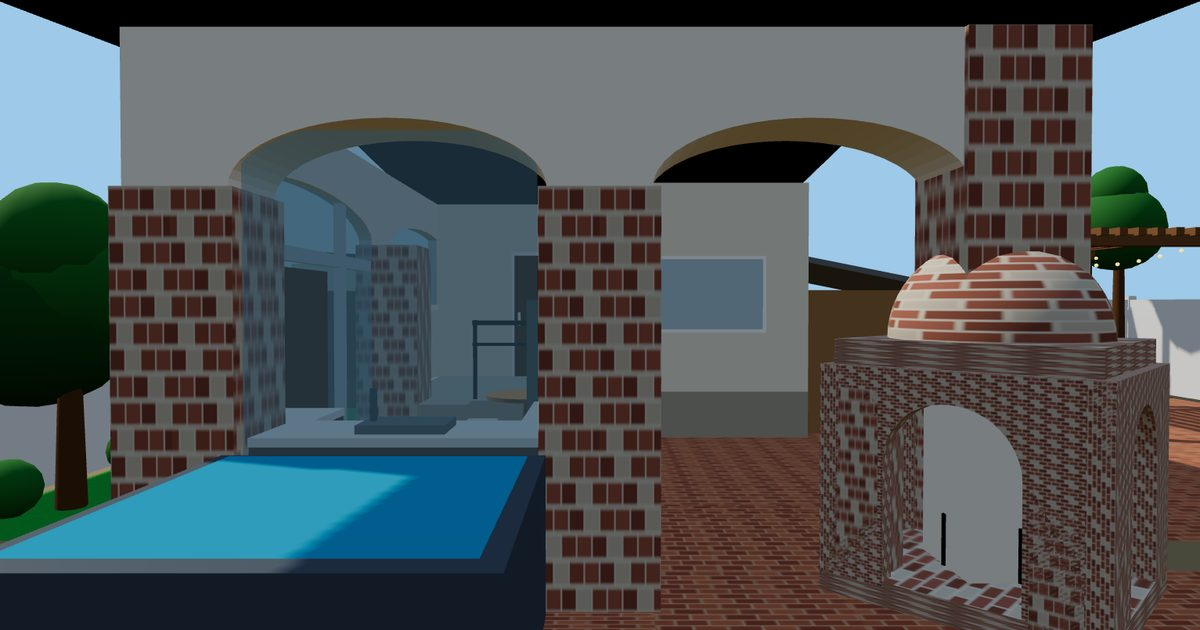
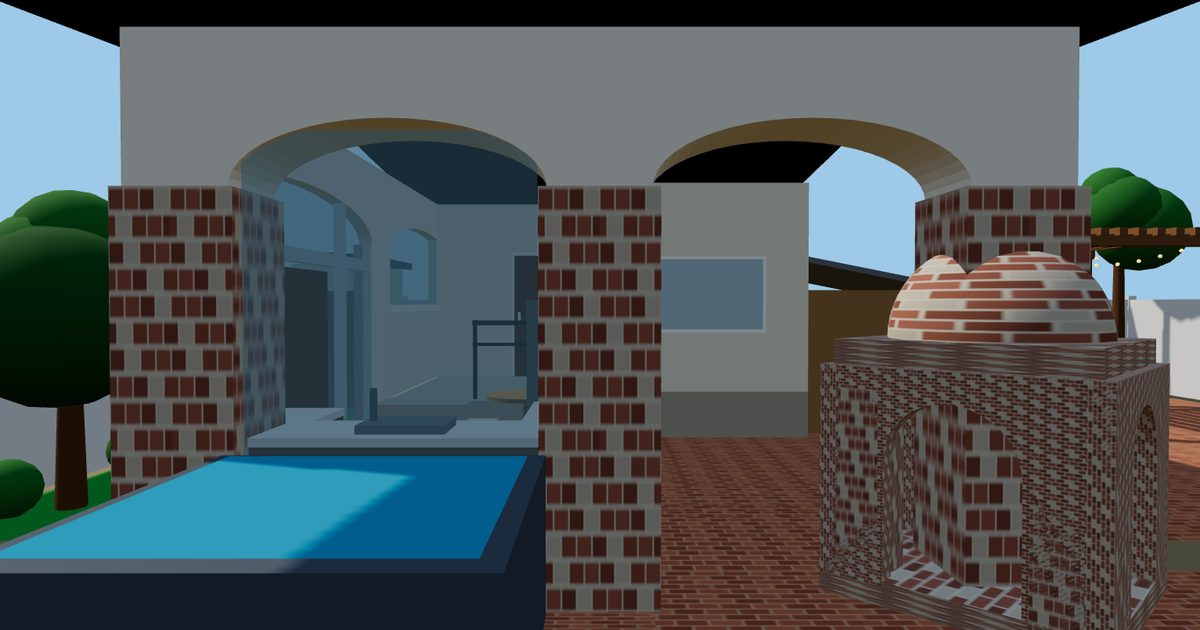
East pillars are facade pilasters only (interior space reclaimed; NE corner uses real existing pillar). Chimney brick stops at 8ft spring; concealed flue pipe with stub above roof. Blueprint notes + t8 + assets updated

diff --git a/render3d.html b/render3d.html
@@ -250,7 +250,16 @@ const NWALL = new THREE.Group(); scene.add(NWALL);
   aw.position.set(0, 0, -4); NWALL.add(aw);   // extrudes z -4 → -2
   box(2.3, 8, 2.3, M.brickWhite, 9, 4, -3, NWALL);        // center pillar — brick to spring line (8')
   box(2.3, 8, 2.3, M.brickWhite, 17, 4, -3, NWALL);       // NE pillar
-  box(2.3, 9.4, 2.3, M.brickWhite, 1, 9.3, -3, NWALL);    // NW pillar IS the chimney — rises FROM the dome, through the raised roof
+  box(2.3, 8, 2.3, M.brickWhite, 1, 4, -3, NWALL);   // NW pillar — brick stops at the spring line like the others
+  // Concealed flue pipe from the fireplace dome up through the roof (only the stub shows above)
+  {
+    const pipe = new THREE.Mesh(new THREE.CylinderGeometry(0.35, 0.35, 8.4, 12),
+      new THREE.MeshStandardMaterial({ color: 0x3a3f45, roughness: 0.5, metalness: 0.6 }));
+    pipe.position.set(1, 9.2, -3); pipe.castShadow = true; NWALL.add(pipe);
+    const cap = new THREE.Mesh(new THREE.CylinderGeometry(0.55, 0.55, 0.25, 12),
+      new THREE.MeshStandardMaterial({ color: 0x2c3036, roughness: 0.5, metalness: 0.6 }));
+    cap.position.set(1, 13.5, -3); NWALL.add(cap);
+  }
 }
 // East arch = arched window over the kitchen sink (arch kept, glazed at the outer wall face)
 box(5.6, 9, 0.25, M.glass, 13, 4.6, -3.75);
@@ -300,8 +309,10 @@ const EARC = new THREE.Group(); scene.add(EARC);
   aw.rotation.y = Math.PI / 2;     // local X 0→29 maps to global z 26→-3; depth → +X (x17.5-18)
   aw.position.set(17.5, 0, 26);
   EARC.add(aw);
-  // Brick to the spring line (8') only — thin stucco arches above, matching the north wall
-  for (const pz of [25, 11, -3]) box(2.3, 8, 2.3, M.brickWhite, 17, 4, pz, EARC);
+  // Pillar FACADES only (rev 7/12) — brick pilaster faces applied to the wall for effect;
+  // no real pillar masses, so the interior real estate stays clear. Slightly proud of the
+  // outer face. NE corner (z-3) uses the real existing north-wall pillar — no duplicate.
+  for (const pz of [25, 11]) box(0.35, 8, 2.3, M.brickWhite, 18.05, 4, pz, EARC);
 }
 // Kitchen east side — CLOSED option (toggleable): arched glazing + the APARTMENT ENTRY door
 const KCLOSED = new THREE.Group(); scene.add(KCLOSED);

diff --git a/blueprint.html b/blueprint.html
@@ -239,9 +239,9 @@ th{color:#7ab8ff;font-size:11px;text-transform:uppercase;letter-spacing:.5px}
     <li><b>[9] Lean-to shed</b> — attached to the office <b>west wall</b>; wood plank walls, corrugated roof, high side on the building. Stays. <span class="src">(IMG_2626, 2646 · owner 7/9)</span></li>
     <li><b>[10] North arch wall</b> — the building's north face, <b>~2' thick</b>, 11' tall, with heavy white-washed brick pillars and <b>two large arches</b>; south face <b>16' north of the office north wall</b> (3' office→ridge + 13' ridge→wall — corrected per owner 7/12; previously drawn at 14'). Proportions calibrated from IMG_2642 @ 11' wall: <b>brick pillars to the 8' spring line; flat segmental arches, ~1'-4" rise, apex ~9'-4"</b> — thin stucco band under the roof. Template for the new east-facade arches. <span class="src">(IMG_2642 · owner 7/9, 7/12)</span></li>
     <li><b>[11] Spa</b> — hot tub sits <b>outside, on the north porch</b>, attached to the north face of the wall at the <b>east arch (kept, glazed as an arched window)</b>. Inside: kitchen counter/sink overlooking the window and spa. <span class="src">(IMG_2642 · owner 7/9)</span></li>
-    <li><b>[12] Fireplace / pizza oven</b> — brick base, arched mouth, domed top, set at 45° <b>directly under the chimney at the NW corner</b>; the dome is plan-centered on the NW pillar and <b>the chimney rises from the dome</b> through the patio cover. Brick pillars stop at the arch spring line — arches are all stucco. <span class="src">(IMG_2633, 2642, 2643 · owner 7/9)</span></li>
+    <li><b>[12] Fireplace / pizza oven</b> — brick base, arched mouth, domed top, set at 45° <b>directly under the chimney at the NW corner</b>; the dome is plan-centered on the NW pillar. <b>The chimney brick stops at the 8' spring line like the other pillars — a concealed flue pipe runs up through the roof</b> (only a stub shows above). Brick pillars stop at the arch spring line — arches are all stucco. <span class="src">(IMG_2633, 2642, 2643 · owner 7/9)</span></li>
     <li><b>[13] Main roof</b> — one continuous low gable, <b>1' rise per 10' run</b>, ridge E-W <b>3' north of the office north wall</b>; south plane 16' (18" S overhang), north plane 20' (extends ~5' past the arch wall); 20' wide E-W (1' overhangs both sides). <span class="src">(owner 7/9, 7/12)</span></li>
-    <li><b>[14] East arch wall — NEW</b> (proposed, dashed): <b>regular-thickness framed wall</b> with its <b>outer face on the building line</b> (roof overhangs 1' beyond); heavy 2'+ brick pillars to the spring line at the <b>ridge line and south end</b> plus the shared NE corner; <b>arches span the full pillar-to-pillar bays, springing from the pillar tops</b>. Arches match the calibrated north proportions: <b>spring at the 8' pillar tops, flat segmental rise ~1'-4", apex ~9'-4"</b>. North arch = glazed with the <b>apartment entry door</b>; south arch = <b>half-height wall (3.5' above deck) with a window band up to the arch</b>. New stair [6] lands beside the ridge-line pillar. <span class="src">(owner 7/9-12)</span></li>
+    <li><b>[14] East arch wall — NEW</b> (proposed, dashed): <b>regular-thickness framed wall</b> with its <b>outer face on the building line</b> (roof overhangs 1' beyond); brick <b>pilaster facades</b> (veneer for effect — not structural masses, interior real estate stays clear) at the <b>ridge line and south end</b>; the NE corner uses the real existing north-wall pillar; <b>arches span the full bays, springing from the 8' pilaster tops</b>. Arches match the calibrated north proportions: <b>spring at the 8' pillar tops, flat segmental rise ~1'-4", apex ~9'-4"</b>. North arch = glazed with the <b>apartment entry door</b>; south arch = <b>half-height wall (3.5' above deck) with a window band up to the arch</b>. New stair [6] lands beside the ridge-line pillar. <span class="src">(owner 7/9-12)</span></li>
     <li><b>[15] Plan revision 7/12</b> (proposed, dashed): new bath <b>8'×5' at the south end of the raised deck, flush with the building's south face</b> (southern bump-out deleted); <b>veranda extension 10' wide × 3'</b> (kitchen-aligned) north to the ridge line, <b>west side solid wall</b> (continues the kitchen west wall from the ridge to the office north wall — no gap); kitchen slab at grade runs <b>north wall → ridge, 10'×13'</b>. Kitchen counters: run between fridge and north wall (NW, west wall), <b>sink counter starting at the middle of the north wall and running the eastern arch</b>, plus a <b>standard-depth peninsula projecting 30" from the north wall at the far NE corner</b>. <span class="src">(owner 7/12)</span></li>
   </ul>
 </div>